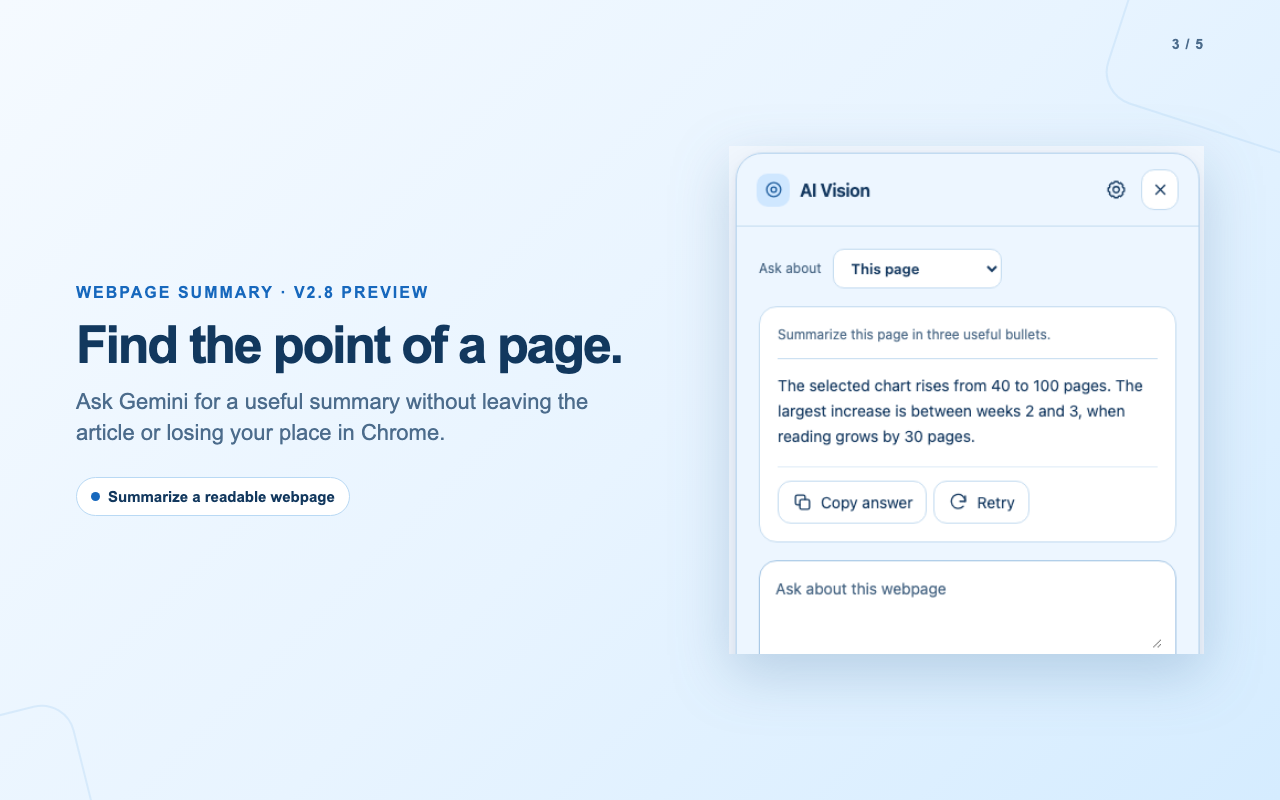
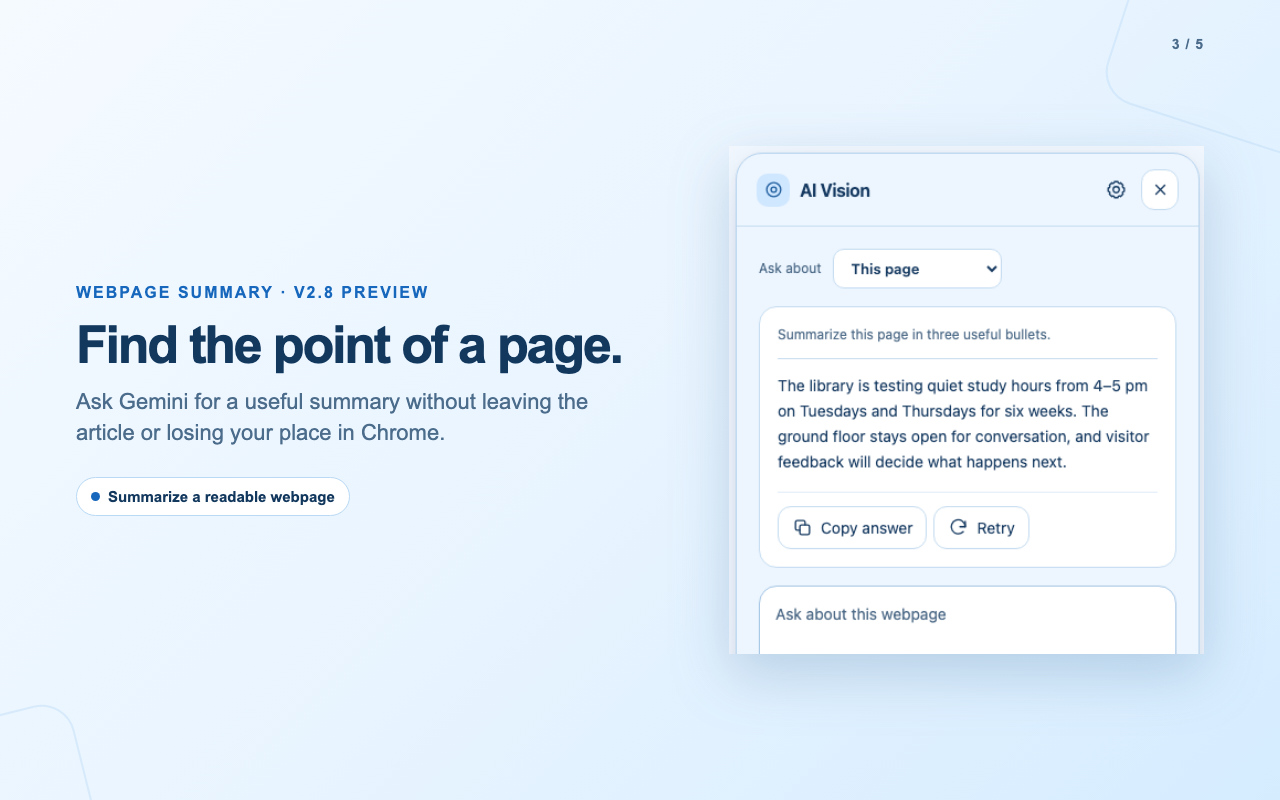
Clarify Store workflow examples

Changed region(s): [[0.5938, 0.4688, 0.9062, 0.7812]]

diff --git a/tests/manual/assistant-panel-harness.html b/tests/manual/assistant-panel-harness.html
@@ -104,6 +104,12 @@
             if (scenario === 'extract') {
               return { requestId: request.requestId, text: 'Weekly reading progress\nWeek 1: 40 pages\nWeek 2: 60 pages\nWeek 3: 90 pages\nWeek 4: 100 pages' };
             }
+            if (scenario === 'page') {
+              return { requestId: request.requestId, text: 'The library is testing quiet study hours from 4–5 pm on Tuesdays and Thursdays for six weeks. The ground floor stays open for conversation, and visitor feedback will decide what happens next.' };
+            }
+            if (scenario === 'tabs') {
+              return { requestId: request.requestId, text: 'Daylight 18 is 250 g lighter and explicitly includes a laptop sleeve. Cloudpack 22 adds 4 L and includes a rain cover, but its laptop storage is not specified.' };
+            }
             const turnCount = Array.isArray(request.conversationHistory) ? request.conversationHistory.length / 2 : 0;
             return {
               requestId: request.requestId,
